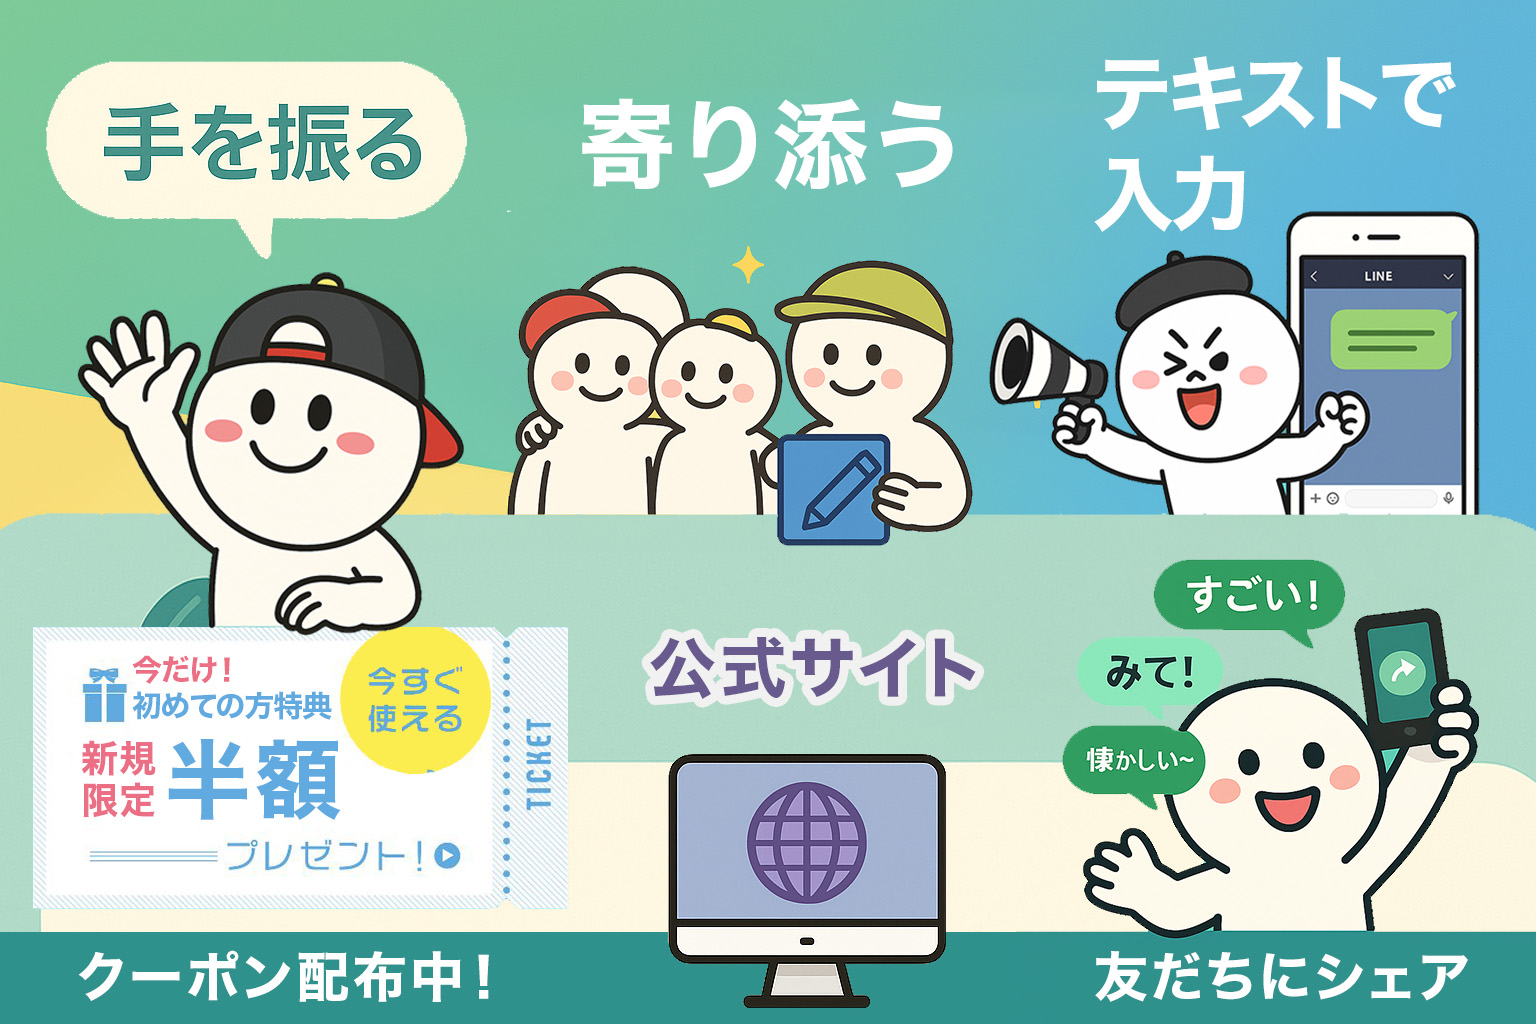
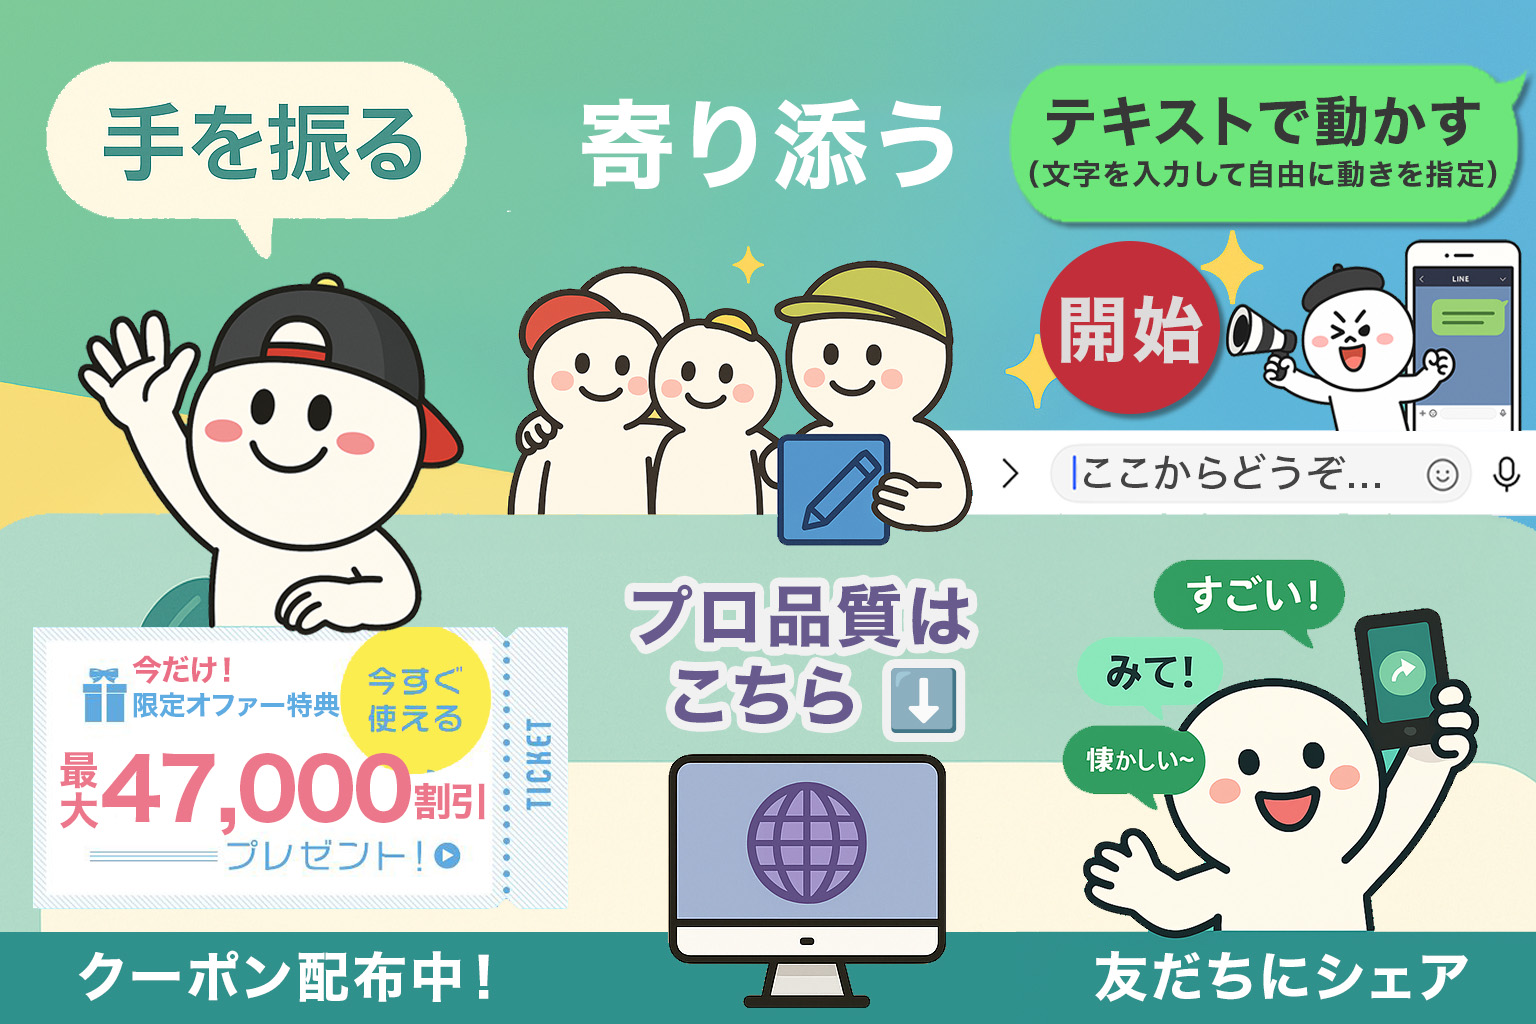
添加Rich Menu更新端点并修复OFFICIAL_SITE处理

Changed region(s): [[0.5938, 0.0312, 1.0, 0.5312], [0.4062, 0.5625, 0.6562, 0.75], [0.0312, 0.6562, 0.3125, 0.8125]]

diff --git a/api/setup/update-main-richmenu.js b/api/setup/update-main-richmenu.js
@@ -1,0 +1,163 @@
+/**
+ * 更新生产环境主Rich Menu
+ * 使用新的main.jpg设计
+ */
+
+const { Client } = require('@line/bot-sdk');
+const fs = require('fs');
+const path = require('path');
+const lineConfig = require('../../config/line-config');
+
+export default async function handler(req, res) {
+  // 管理员验证
+  const { adminKey } = req.body;
+  if (adminKey !== 'update-main-richmenu-2024') {
+    return res.status(401).json({ error: 'Unauthorized' });
+  }
+
+  if (req.method !== 'POST') {
+    return res.status(405).json({ error: 'Method not allowed' });
+  }
+
+  try {
+    console.log('🔄 开始更新生产环境主Rich Menu...');
+
+    // 初始化LINE客户端（使用生产环境配置）
+    const client = new Client({
+      channelAccessToken: process.env.LINE_CHANNEL_ACCESS_TOKEN_PROD || process.env.LINE_CHANNEL_ACCESS_TOKEN,
+      channelSecret: process.env.LINE_CHANNEL_SECRET_PROD || process.env.LINE_CHANNEL_SECRET,
+    });
+
+    // 读取新的Rich Menu图片
+    const imagePath = path.join(process.cwd(), 'assets', 'main.jpg');
+    const imageBuffer = fs.readFileSync(imagePath);
+
+    console.log('📷 新图片大小:', Math.round(imageBuffer.length / 1024), 'KB');
+
+    // 新的主Rich Menu配置（基于图片设计分析）
+    // 图片尺寸：2500x1686
+    const newMainRichMenu = {
+      size: {
+        width: 2500,
+        height: 1686
+      },
+      selected: true,
+      name: 'Main Menu - Updated',
+      chatBarText: '写真復活メニュー',
+      areas: [
+        // 第一行 - 3个按钮
+        // 左上："手を振る" - WAVE_VIDEO
+        {
+          bounds: { x: 0, y: 0, width: 833, height: 843 },
+          action: { type: "postback", data: "action=WAVE_VIDEO" }
+        },
+        // 中上："寄り添う" - GROUP_VIDEO
+        {
+          bounds: { x: 833, y: 0, width: 834, height: 843 },
+          action: { type: "postback", data: "action=GROUP_VIDEO" }
+        },
+        // 右上："テキストで動かす" - PERSONALIZE
+        {
+          bounds: { x: 1667, y: 0, width: 833, height: 843 },
+          action: { type: "postback", data: "action=PERSONALIZE" }
+        },
+        
+        // 第二行 - 3个按钮
+        // 左下："クーポン配布中！" - COUPON
+        {
+          bounds: { x: 0, y: 843, width: 833, height: 843 },
+          action: { type: "postback", data: "action=COUPON" }
+        },
+        // 中下："プロ品質はこちら" - OFFICIAL_SITE
+        {
+          bounds: { x: 833, y: 843, width: 834, height: 843 },
+          action: { type: "postback", data: "action=OFFICIAL_SITE" }
+        },
+        // 右下："友だちにシェア" - SHARE
+        {
+          bounds: { x: 1667, y: 843, width: 833, height: 843 },
+          action: { type: "postback", data: "action=SHARE" }
+        }
+      ]
+    };
+
+    // 1. 创建新的Rich Menu
+    console.log('📋 创建新的主Rich Menu...');
+    const newMainMenuId = await client.createRichMenu(newMainRichMenu);
+    console.log('✅ 新主Rich Menu创建成功:', newMainMenuId);
+
+    // 2. 上传新图片
+    console.log('📷 上传新Rich Menu图片...');
+    await client.setRichMenuImage(newMainMenuId, imageBuffer, 'image/jpeg');
+    console.log('✅ 图片上传成功');
+
+    // 3. 获取当前Rich Menu配置
+    let currentMainMenuId = null;
+    try {
+      const richMenuConfig = JSON.parse(fs.readFileSync(
+        path.join(process.cwd(), 'config', 'richmenu-ids-production.json'), 
+        'utf8'
+      ));
+      currentMainMenuId = richMenuConfig.mainRichMenuId;
+      console.log('📋 当前主Rich Menu ID:', currentMainMenuId);
+    } catch (error) {
+      console.log('⚠ 无法读取当前Rich Menu配置');
+    }
+
+    // 4. 设置新Rich Menu为默认
+    console.log('🔧 设置新Rich Menu为默认...');
+    await client.setDefaultRichMenu(newMainMenuId);
+    console.log('✅ 新Rich Menu已设为默认');
+
+    // 5. 删除旧的主Rich Menu（如果存在）
+    if (currentMainMenuId && currentMainMenuId !== newMainMenuId) {
+      try {
+        console.log('🗑 删除旧的主Rich Menu:', currentMainMenuId);
+        await client.deleteRichMenu(currentMainMenuId);
+        console.log('✅ 旧Rich Menu删除成功');
+      } catch (error) {
+        console.log('⚠ 删除旧Rich Menu失败（可能已不存在）:', error.message);
+      }
+    }
+
+    // 6. 更新配置文件
+    const configPath = path.join(process.cwd(), 'config', 'richmenu-ids-production.json');
+    let config = {};
+    
+    try {
+      config = JSON.parse(fs.readFileSync(configPath, 'utf8'));
+    } catch (error) {
+      console.log('📝 创建新的配置文件');
+    }
+
+    config.mainRichMenuId = newMainMenuId;
+    config.updatedAt = new Date().toISOString();
+    config.note = 'Updated with new main.jpg design';
+
+    fs.writeFileSync(configPath, JSON.stringify(config, null, 2));
+    console.log('📝 配置文件已更新');
+
+    console.log('🎉 主Rich Menu更新完成！');
+
+    res.json({
+      success: true,
+      message: '主Rich Menu更新成功',
+      timestamp: new Date().toISOString(),
+      details: {
+        newMainMenuId,
+        oldMainMenuId: currentMainMenuId,
+        imageSizeKB: Math.round(imageBuffer.length / 1024),
+        areas: newMainRichMenu.areas.length,
+        configUpdated: true
+      }
+    });
+
+  } catch (error) {
+    console.error('❌ 更新Rich Menu失败:', error);
+    res.status(500).json({
+      success: false,
+      error: error.message,
+      stack: error.stack
+    });
+  }
+} 

diff --git a/handlers/event-handler.js b/handlers/event-handler.js
@@ -365,7 +365,7 @@ class EventHandler {
         case 'NO_PHOTO':
           return await this.handleNoPhotoAction(event, user);
         case 'OFFICIAL_SITE':
-          return await this.handleOfficialSite(event, user);
+          return await this.handleWebsiteAction(event, user);
         case 'SHARE_FRIENDS':
         case 'SHARE':
           return await this.handleShareAction(event, user);
